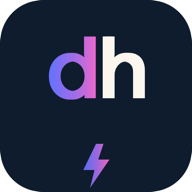
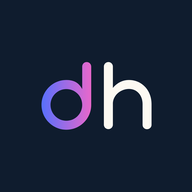
veri guncelle 2026-11-25T14:08Z

diff --git a/index.html b/index.html
@@ -8,28 +8,32 @@
 <meta name="apple-mobile-web-app-status-bar-style" content="black-translucent">
 <meta name="apple-mobile-web-app-title" content="dijital hisse">
 <title>dijital hisse — Canlı İzleme</title>
-<meta name="dh-surum" content="12">
+<meta name="dh-surum" content="13">
 <link rel="manifest" href="manifest.json">
-<link rel="icon" href="icon.svg" type="image/svg+xml">
+<link rel="icon" href="icon-192.png" type="image/png">
 <link rel="apple-touch-icon" href="icon-512.png">
 <link rel="preconnect" href="https://fonts.googleapis.com"><link rel="preconnect" href="https://fonts.gstatic.com" crossorigin>
 <link href="https://fonts.googleapis.com/css2?family=Google+Sans:wght@400;500;700&family=Quicksand:wght@500;600;700&family=JetBrains+Mono:wght@400;500;600&display=swap" rel="stylesheet">
 <style>
   :root{--bg:#f8f7f4;--surface:#ffffff;--line:#e6e1d6;--fg:#111d2e;--muted:#5d6880;--send:#4b5be6;--send-fg:#fff;--send-soft:#e8eaff;
     --good:#12805c;--good-soft:#dff3ea;--bad:#b0307e;--bad-soft:#fbe3f2;--warn:#8a5a00;--warn-soft:#fbf0d6;--idle-soft:#f1ede4;
-    --grad:linear-gradient(90deg,#5b72ff,#a66ce6 55%,#ff66c4);--cream:#111d2e;
+    --grad:linear-gradient(90deg,#5b72ff,#a66ce6 55%,#ff66c4);--cream:#111d2e;--dl:inline;--dd:none;
     --sans:"Google Sans","Google Sans Flex","Product Sans",system-ui,-apple-system,"Segoe UI",Roboto,sans-serif;--logo:"Quicksand",var(--sans);--mono:"JetBrains Mono",ui-monospace,Menlo,monospace}
   [data-theme="dark"]{--bg:#0f1c2e;--surface:#16253b;--line:#2a3b57;--fg:#fbf6ee;--muted:#9fb0c8;--send:#8794ff;--send-fg:#0f1c2e;--send-soft:#1f2c55;
-    --good:#3fbf8f;--good-soft:#173a30;--bad:#ff8fc0;--bad-soft:#40203a;--warn:#e9b866;--warn-soft:#3a2f18;--idle-soft:#1d2c44;--cream:#fbf6ee;color-scheme:dark}
+    --good:#3fbf8f;--good-soft:#173a30;--bad:#ff8fc0;--bad-soft:#40203a;--warn:#e9b866;--warn-soft:#3a2f18;--idle-soft:#1d2c44;--cream:#fbf6ee;--dl:none;--dd:inline;color-scheme:dark}
   *{box-sizing:border-box} [hidden]{display:none!important}
   html,body{margin:0;background:var(--bg);color:var(--fg);font:15px/1.45 var(--sans);-webkit-font-smoothing:antialiased}
   button{font:inherit;color:inherit}
   .app{display:grid;grid-template-columns:240px 1fr;min-height:100vh}
   .side{position:sticky;top:0;height:100vh;overflow:auto;background:var(--surface);border-right:1px solid var(--line);display:flex;flex-direction:column;gap:14px;padding:18px 12px 16px max(12px,env(safe-area-inset-left,0px))}
-  .logo{display:flex;align-items:center;gap:8px;padding:4px 8px;font:700 24px/1 var(--logo);letter-spacing:-.01em;user-select:none;cursor:pointer;background:none;border:none;text-align:left}
-  .logo .g{background:var(--grad);-webkit-background-clip:text;background-clip:text;color:transparent}
-  .logo .c{color:var(--cream)}
-  .logo .kisa{display:none}
+  .logo{display:flex;align-items:center;gap:8px;padding:4px 8px;min-height:36px;user-select:none;cursor:pointer;background:none;border:none;text-align:left}
+  .logo img{display:none;width:auto;height:26px} .logo .kisa{height:28px}
+  .logo .uzun.l{display:var(--dl)} .logo .uzun.d{display:var(--dd)}
+  /* masaustu daraltilmis menu (.dar): yalnizca simgeler + dh isareti; tooltip'ler etiketi soyler */
+  .app.dar{grid-template-columns:76px 1fr}
+  .app.dar .side .nv span,.app.dar .side .nv em,.app.dar .side .alt,.app.dar .side .rule,.app.dar .logo .uzun{display:none}
+  .app.dar .logo .kisa.l{display:var(--dl)} .app.dar .logo .kisa.d{display:var(--dd)}
+  .app.dar .nv{justify-content:center;padding:10px 0} .app.dar .logo{justify-content:center;padding:4px 0}
   .alt{font-size:11.5px;color:var(--muted);padding:0 8px;margin-top:-10px;letter-spacing:.04em}
   .nv{display:flex;align-items:center;gap:10px;width:100%;border:none;background:none;border-radius:8px;padding:9px 10px;color:var(--muted);font-weight:500;text-align:left;cursor:pointer}
   .nv:hover{color:var(--fg)} .nv[aria-current=true]{background:var(--send-soft);color:var(--send)}
@@ -86,9 +90,10 @@
   @media (max-width:860px){
     .app{grid-template-columns:1fr}
     .side{position:fixed;top:0;bottom:0;left:0;width:60px;height:100%;z-index:15;gap:10px;padding:max(14px,env(safe-area-inset-top,0px)) 6px calc(12px + env(safe-area-inset-bottom,0px)) max(6px,env(safe-area-inset-left,0px));overflow-y:auto;overflow-x:hidden;transition:width .2s}
-    .side .nv span,.side .nv em,.side .alt,.side .rule,.logo .uzun{display:none} .nv{justify-content:center;padding:10px 0} .logo{justify-content:center;padding:4px 0;font-size:20px} .logo .kisa{display:inline}
+    .side .nv span,.side .nv em,.side .alt,.side .rule,.app:not(.acik) .logo .uzun{display:none} .nv{justify-content:center;padding:10px 0} .logo{justify-content:center;padding:4px 0}
+    .app:not(.acik) .logo .kisa.l{display:var(--dl)} .app:not(.acik) .logo .kisa.d{display:var(--dd)}
     .app.acik .side{width:min(86vw,300px);box-shadow:0 0 40px rgba(0,0,0,.25);padding-left:max(12px,env(safe-area-inset-left,0px));padding-right:12px}
-    .app.acik .side .nv span,.app.acik .side .nv em,.app.acik .side .alt,.app.acik .side .rule,.app.acik .logo .uzun{display:inline} .app.acik .logo .kisa{display:none} .app.acik .nv{justify-content:flex-start;padding:9px 10px}
+    .app.acik .side .nv span,.app.acik .side .nv em,.app.acik .side .alt,.app.acik .side .rule{display:inline} .app.acik .logo .uzun.l{display:var(--dl)} .app.acik .logo .uzun.d{display:var(--dd)} .app.acik .logo .kisa{display:none} .app.acik .nv{justify-content:flex-start;padding:9px 10px}
     .app.acik .side .rule{display:block}
     .perde{position:fixed;inset:0;background:rgba(0,0,0,.35);z-index:14;display:none} .app.acik .perde{display:block}
     .main{padding:14px 14px 40px 74px} h1{font-size:19px} .card .v{font-size:21px}
@@ -98,7 +103,7 @@
 <body>
 <div class="app" id="app">
   <aside class="side">
-    <button class="logo" id="logoBtn" title="Menüyü Aç / Kapat"><span class="uzun"><span class="g">dijital</span> <span class="c">hisse</span></span><span class="kisa g">dh</span></button>
+    <button class="logo" id="logoBtn" title="Menüyü Daralt / Genişlet"><img class="uzun l" src="logo-light.png" alt="dijital hisse"><img class="uzun d" src="logo-dark.png" alt="dijital hisse"><img class="kisa l" src="mark-light.png" alt="dh"><img class="kisa d" src="mark-dark.png" alt="dh"></button>
     <div class="alt">Canlı İzleme Merkezi</div>
     <nav>
       <button class="nv" data-v="ozet" aria-current="true"><svg viewBox="0 0 24 24" width="18" height="18" fill="none" stroke="currentColor" stroke-width="1.8" stroke-linecap="round" stroke-linejoin="round"><rect x="3" y="3" width="7" height="9" rx="1.5"/><rect x="14" y="3" width="7" height="5" rx="1.5"/><rect x="14" y="12" width="7" height="9" rx="1.5"/><rect x="3" y="16" width="7" height="5" rx="1.5"/></svg><span>Genel Bakış</span></button>
@@ -139,7 +144,11 @@ document.documentElement.setAttribute("data-theme",ls.get("dh-tema")||"dark");
 $("#temaBtn").onclick=()=>{const t=document.documentElement.getAttribute("data-theme")==="dark"?"light":"dark";document.documentElement.setAttribute("data-theme",t);ls.set("dh-tema",t)};
 function gizleYaz(){const g=ls.get("dh-gizli")==="1";app.classList.toggle("gizli",g);$("#gizleBtn span").textContent=g?"Tutarları Göster":"Tutarları Gizle"}
 $("#gizleBtn").onclick=()=>{ls.set("dh-gizli",ls.get("dh-gizli")==="1"?"0":"1");gizleYaz()}; gizleYaz();
-$("#logoBtn").onclick=()=>app.classList.toggle("acik"); $("#perde").onclick=()=>app.classList.remove("acik");
+const mobil=()=>matchMedia("(max-width:860px)").matches;
+if(ls.get("dh-dar")==="1")app.classList.add("dar");
+$("#logoBtn").onclick=()=>{if(mobil())app.classList.toggle("acik");else{app.classList.toggle("dar");ls.set("dh-dar",app.classList.contains("dar")?"1":"0")}};
+$("#perde").onclick=()=>app.classList.remove("acik");
+document.querySelectorAll(".nv").forEach(b=>{const t=b.querySelector("span");if(t&&!b.title)b.title=t.textContent});
 document.querySelectorAll(".nv[data-v]").forEach(b=>b.onclick=()=>{goster(b.dataset.v);app.classList.remove("acik")});
 function goster(v){document.querySelectorAll(".nv[data-v]").forEach(b=>b.setAttribute("aria-current",b.dataset.v===v));document.querySelectorAll(".view").forEach(s=>s.classList.toggle("on",s.id==="v-"+v));$("#baslik").textContent=BASLIK[v];ls.set("dh-view",v)}
 

diff --git a/sw.js b/sw.js
@@ -1,6 +1,6 @@
-// dijital hisse PWA v10: once ag (network-first); ag 4 sn icinde cevap vermezse veya yoksa onbellek. Eski sayfa kopyasi asla once sunulmaz.
-const K = "dh-v10", BEKLE_MS = 4000;
-const KABUK = ["./", "./index.html", "./manifest.json", "./icon.svg", "./icon-192.png", "./icon-512.png"];
+// dijital hisse PWA v11: once ag (network-first); ag 4 sn icinde cevap vermezse veya yoksa onbellek. Eski sayfa kopyasi asla once sunulmaz.
+const K = "dh-v11", BEKLE_MS = 4000;
+const KABUK = ["./", "./index.html", "./manifest.json", "./icon-192.png", "./icon-512.png", "./logo-light.png", "./logo-dark.png", "./mark-light.png", "./mark-dark.png"];
 self.addEventListener("install", e => { e.waitUntil(caches.open(K).then(c => c.addAll(KABUK)).catch(() => {})); self.skipWaiting(); });
 self.addEventListener("activate", e => { e.waitUntil(caches.keys().then(ks => Promise.all(ks.filter(k => k !== K).map(k => caches.delete(k))))); self.clients.claim(); });
 const anahtar = req => { const u = new URL(req.url); u.search = ""; return u.href; }; // veri.json?t=... tek kayitta tutulur

diff --git a/motor/kar_kalkani.py b/motor/kar_kalkani.py
@@ -15,7 +15,7 @@ import yfinance as yf
 
 sys.path.insert(0, str(Path(__file__).parent))
 from ortak_veri import (ACTIVE_SHIELDS, EMA21_GUARD, KADRO, KARTOPU, MAKRO,
-                        PUSU, SHIELD_EXEMPT)
+                        PUSU, SHIELD_EXEMPT, MIKRO_LOT_NOTU, mikro_lot)
 
 KRITIK_PUSU = ["QQQ", "VOO", "MU", "TSM", "ASML", "NOW", "AVGO", "AMZN", "PLTR"]
 
@@ -142,6 +142,8 @@ def tam_rapor(veri):
                         f"{pct(s['fiyat'], pusu):+.1f}%")
         elif t in SHIELD_EXEMPT:
             not_.append("Kale Muafiyeti")
+        elif mikro_lot(t, s["fiyat"]) and (t in EMA21_GUARD or (k is not None and k > 3)):
+            not_.append(MIKRO_LOT_NOTU)  # satis uyarisi bastirildi; zarardaki hisselerde zaten uyari yok, not da yok
         else:
             if t in EMA21_GUARD:
                 if kesin["fiyat"] < kesin["ema21"]:
@@ -166,7 +168,8 @@ def tam_rapor(veri):
     for u in uyarilar:
         print(u)
     if not uyarilar:
-        print("EMA21 Guard (LLY, V): kesin kapanış EMA21 üstünde.")
+        aktif = [t for t in EMA21_GUARD if t in hesap and not mikro_lot(t, hesap[t][0]["fiyat"])]
+        print(f"EMA21 Guard ({', '.join(aktif) or 'yok'}): kesin kapanış EMA21 üstünde.")
     print("Üstten kâr kalkanı adayları:", ", ".join(adaylar) or "yok")
 
     print("\n--- PUSU (alt seviyeye %3'ten yakın veya altında) ---")
